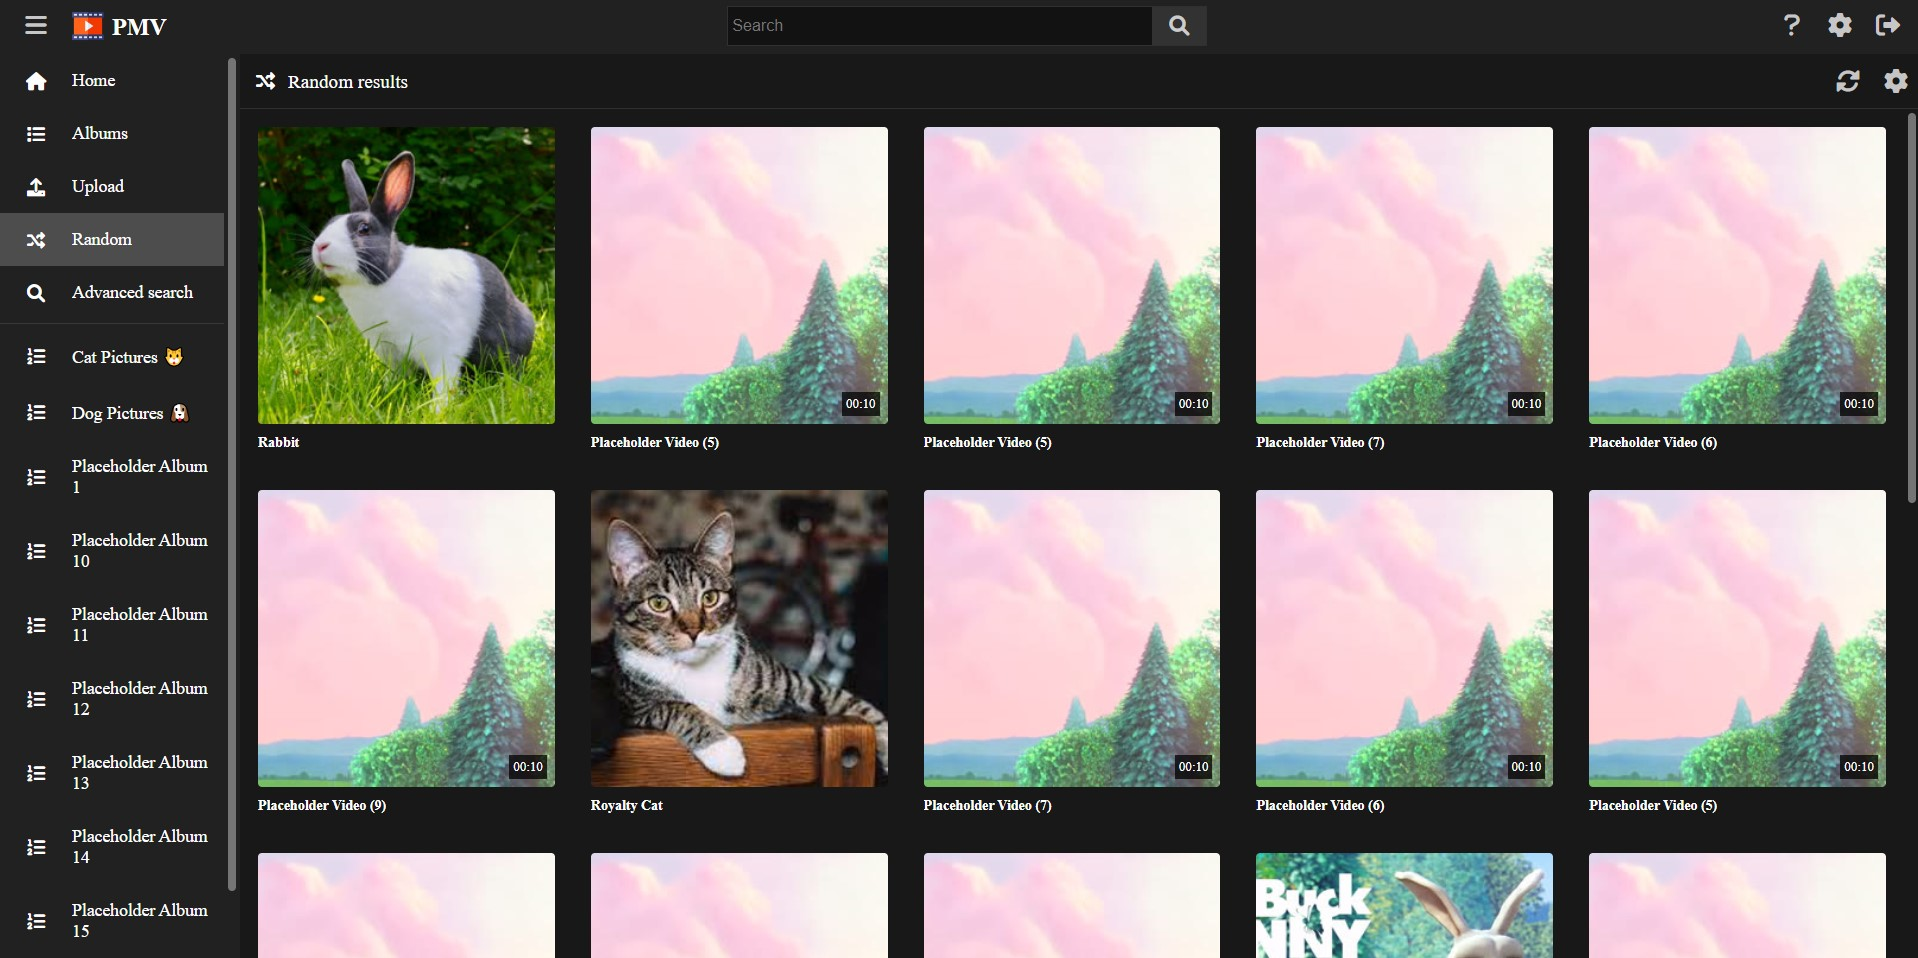
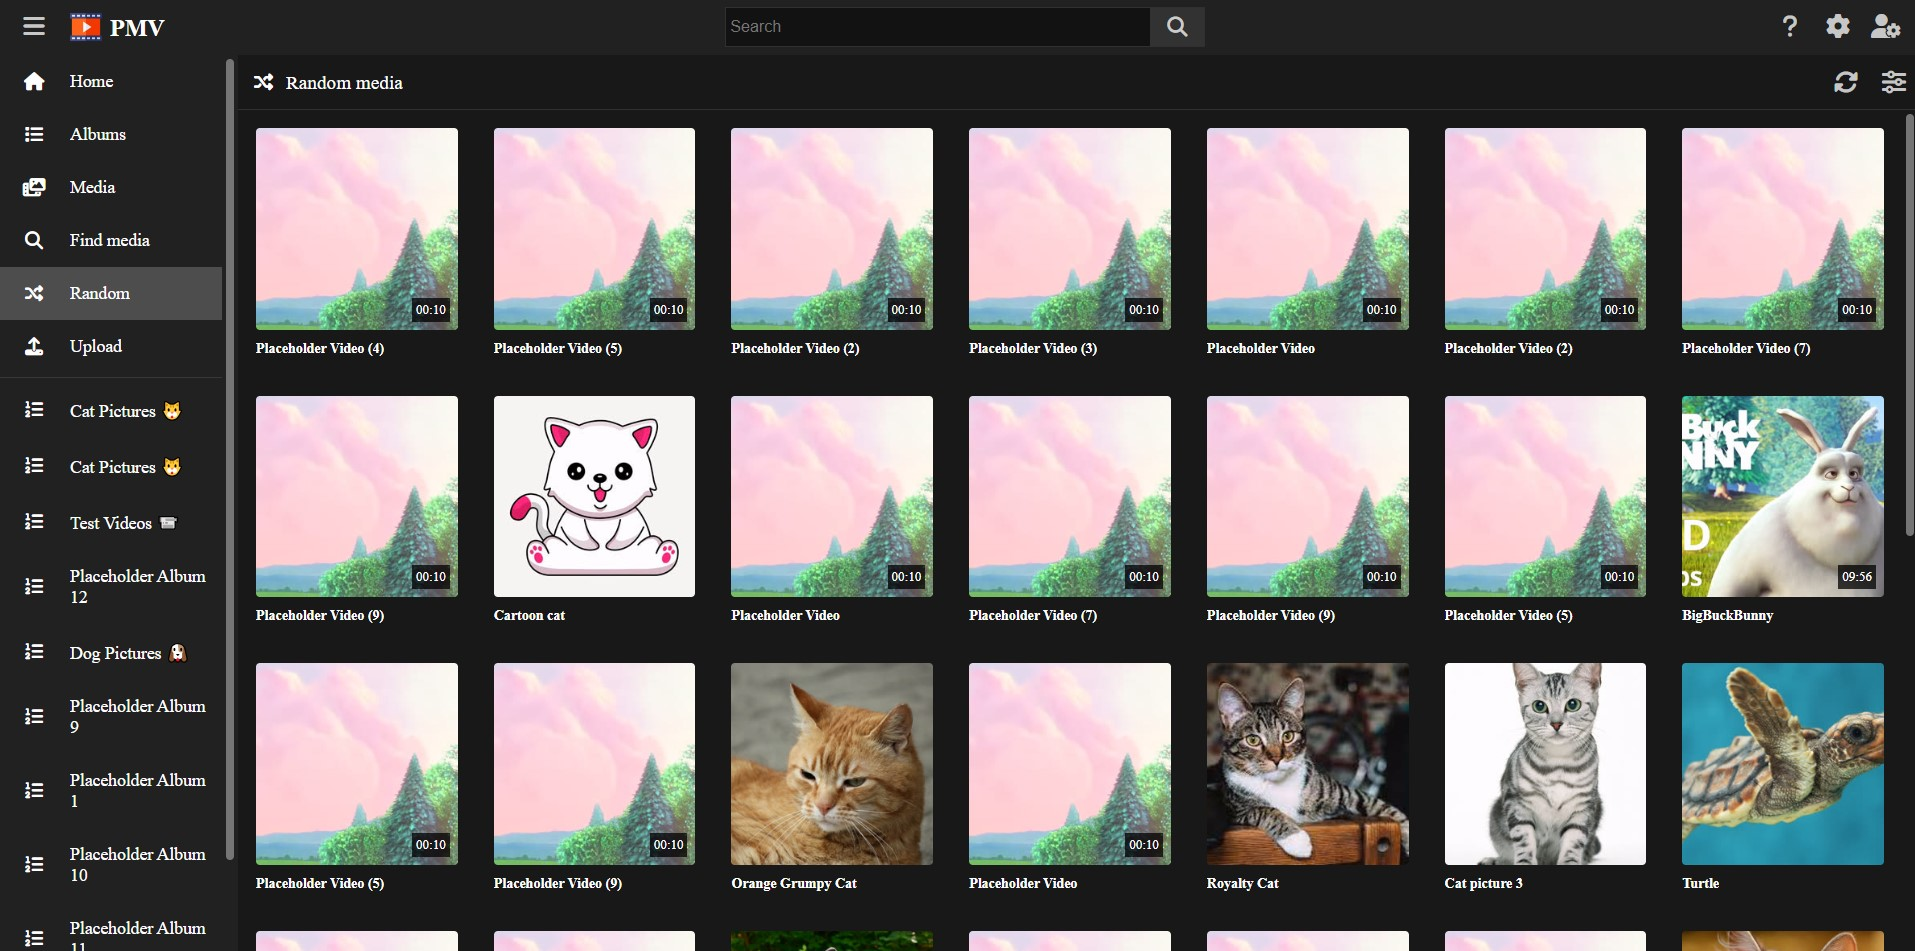
Update screnshots and tutorials

diff --git a/content/en/docs/Tutorials/06-navigating.md b/content/en/docs/Tutorials/06-navigating.md
@@ -9,9 +9,21 @@ weight: 6
 
 ## Home page
 
-When you unlock the vault, the first page you see is the **Home** page, which consists on a paginated gallery containing all the media files you stored in your vault.
+When you unlock the vault, the first page you will see is the **Home** page.
+
+By default, the home page will show you the most recent media element you added to the vault, along with the most recently updated albums.
 
 ![Screenshot]({{< baseurl >}}images/en/home-page.jpg)
+
+This page is very customizable. Click in the **pencil** icon in order to add custom rows and create your own custom home page for your vault.
+
+![Screenshot]({{< baseurl >}}images/en/home-page-edit.jpg)
+
+## Media page
+
+The **Media** page consists on a paginated gallery containing all the media files you stored in your vault.
+
+![Screenshot]({{< baseurl >}}images/en/media-page.jpg)
 
 By default, it will show the most recent media files first. You can change this clicking on the arrow icon at the top-right, in order to show the oldest media files first.
 
@@ -28,19 +40,11 @@ You can also customize the page by clicking in the cog button at the top-right. 
 
 ![Screenshot]({{< baseurl >}}images/en/page-config-modal.jpg)
 
-## Random Results
-
-In case you want to load random media files from your media vault, you can try the **Random** page. This page works similar to the **Home** page, without the menu.
-
-Each time you reload, a new seed is used, giving you a new set of random results.
-
-![Screenshot]({{< baseurl >}}images/en/random-page.jpg)
-
 ## Fast search
 
 By typing in the search bar at the top, you can find any album or tag in the vault.
 
-When selecting a tag, it will filter by that tag, showing you a **Search results** page, identical to the **Home** page, but only showing the media files containing the tag.
+When selecting a tag, it will filter by that tag, showing you a filtered **Media** page, only showing the media files containing the tag.
 
 ![Screenshot]({{< baseurl >}}images/en/fast-search.jpg)
 
@@ -48,11 +52,11 @@ This filter also applies to the **Random** page, in order to get random, filtere
 
 You can clear the filter by clicking on the **X** button that appears in the search bar when there is an active filter.
 
-## Advanced search
+## Find media
 
-If you want a more advanced search system, in order to find a particular file in your vault, you can use the **Advanced search** page. This page will offer you a variety of options like:
+If you want a more advanced search system, in order to find a particular file in your vault, you can use the **Find media** page. This page will offer you a variety of options like:
 
- - Filtering by text in title or description
+ - Filtering by text in the title
  - Filtering by multiple tags
  - Filtering by media type (video, audio, picture)
  - Filtering by album
@@ -60,3 +64,11 @@ If you want a more advanced search system, in order to find a particular file in
 Once your filter is set, you can scroll down until you find what you're looking for.
 
 ![Screenshot]({{< baseurl >}}images/en/advanced-search.jpg)
+
+## Random Results
+
+In case you want to load random media files from your media vault, you can try the **Random** page. This page works similar to the **Media** page, without the menu.
+
+Each time you reload, a new seed is used, giving you a new set of random results.
+
+![Screenshot]({{< baseurl >}}images/en/random-page.jpg)

diff --git a/content/en/docs/Tutorials/01-setting-up-everything.md b/content/en/docs/Tutorials/01-setting-up-everything.md
@@ -25,12 +25,12 @@ Let's get familiar with the interface elements!
 
 First, you have sidebar at the left. You can toggle its visibility with the button at the top left corner. The sidebar has the following elements:
 
- - The **Home** view, where you can access to all the media assets you have, in upload order.
- - The **Search results** view, only visible when you are filtering by a tag. Very similar to the **Home** view, but filtered.
+ - The **Home** page, where you can set up carrousels fo albums or media elements in order to access them in a more efficient and organized way.
  - The **Albums** view, when you can access every album existing in your vault.
- - The **Upload** view, where you can upload media files into your vault.
+ - The **Media** view, where you can find the media existing in your vault.
+ - The **Find media** view, where you can search for media files in your vault, by title, type, tags or album.
  - The **Random** view, witch gives you random media files existing in your vault.
- - The **Advanced search** view, where you can search for media files in your vault, by title, description, type, tags or album.
+ - The **Upload** view, where you can upload media files into your vault.
 
 Below the main options, a list of albums will be displayed, ordered by usage or preference.
 
